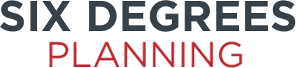
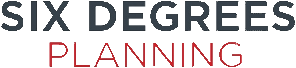
remove white outline on six degrees branding

diff --git a/InnovationLab.js b/InnovationLab.js
@@ -1,5 +1,5 @@
 function setup(){
-	loadAssetFromUrl("https://raw.githubusercontent.com/Franimal/theta-ar-scripts/master/Models/lightsaber/scene.gltf", "lightsaber");	
+	//loadAssetFromUrl("https://raw.githubusercontent.com/Franimal/theta-ar-scripts/master/Models/lightsaber/scene.gltf", "lightsaber");	
 }
 
 function setKey(keyName, keyValue) {
@@ -17,9 +17,9 @@ var saberHilt = null;
 var baseUrl = "https://github.com/Franimal/theta-ar-scripts/raw/master/innovation-showcase/";
 
 function start(){
-	saberHilt = createItem("lightsaber");
-	size(saberHilt, 0.3);	
-	disable(saberHilt);		
+	//saberHilt = createItem("lightsaber");
+	//size(saberHilt, 0.3);	
+	//disable(saberHilt);		
 
 	if(!isHololens()){
 		wrap(floor(10, 0))
@@ -57,17 +57,19 @@ function start(){
 			
 	//SIX DEGREES
 	wrap(cylinder("table"))
-		.move(-10, 0, 10)
-		.scale(1, 0.2, 1);
+		.move(-10, -1.733, 10)
+		.scale(2.6628, 0.2877, 2.662839);
 		
 	wrap(plane("sdtitle"))
 		.texture(baseUrl + "SixDegreesTitle.png")
-		.move(-10, 3, 10);
+		.move(-10, -1.077, 10)
+		.rotate(90, 180, 41.00899)
+		.scale(0.2, 0.2, 0.06);
 		
 	wrap(cube("sixdegreeslogo"))
 		.texture(baseUrl + "SixDegreesLogo.png")
-		.move(-10, 3, 10)
-		.instruction(orbitHorizontal("a", 1, 5, function(){}));
+		.move(-10, -1.39, 10)
+		.instruction(orbitHorizontal("a", 2, 3, function(){}));
 	//baseUrl + "SixDegreesTitle.png"
 	//
 	//MIXED REALITY
@@ -118,9 +120,9 @@ function update(time, player, left, right){
 		if(left.menuPressed){
 			if(!saberEnabled){
 				saberEnabled = true;
-				enable(saberHilt);
-				leftHand(saberHilt);
-				rotate(saberHilt, 45, 45, 0);
+			//	enable(saberHilt);
+			//	leftHand(saberHilt);
+			//	rotate(saberHilt, 45, 45, 0);
 			}
 		}
 		if(left.selectPressed){
